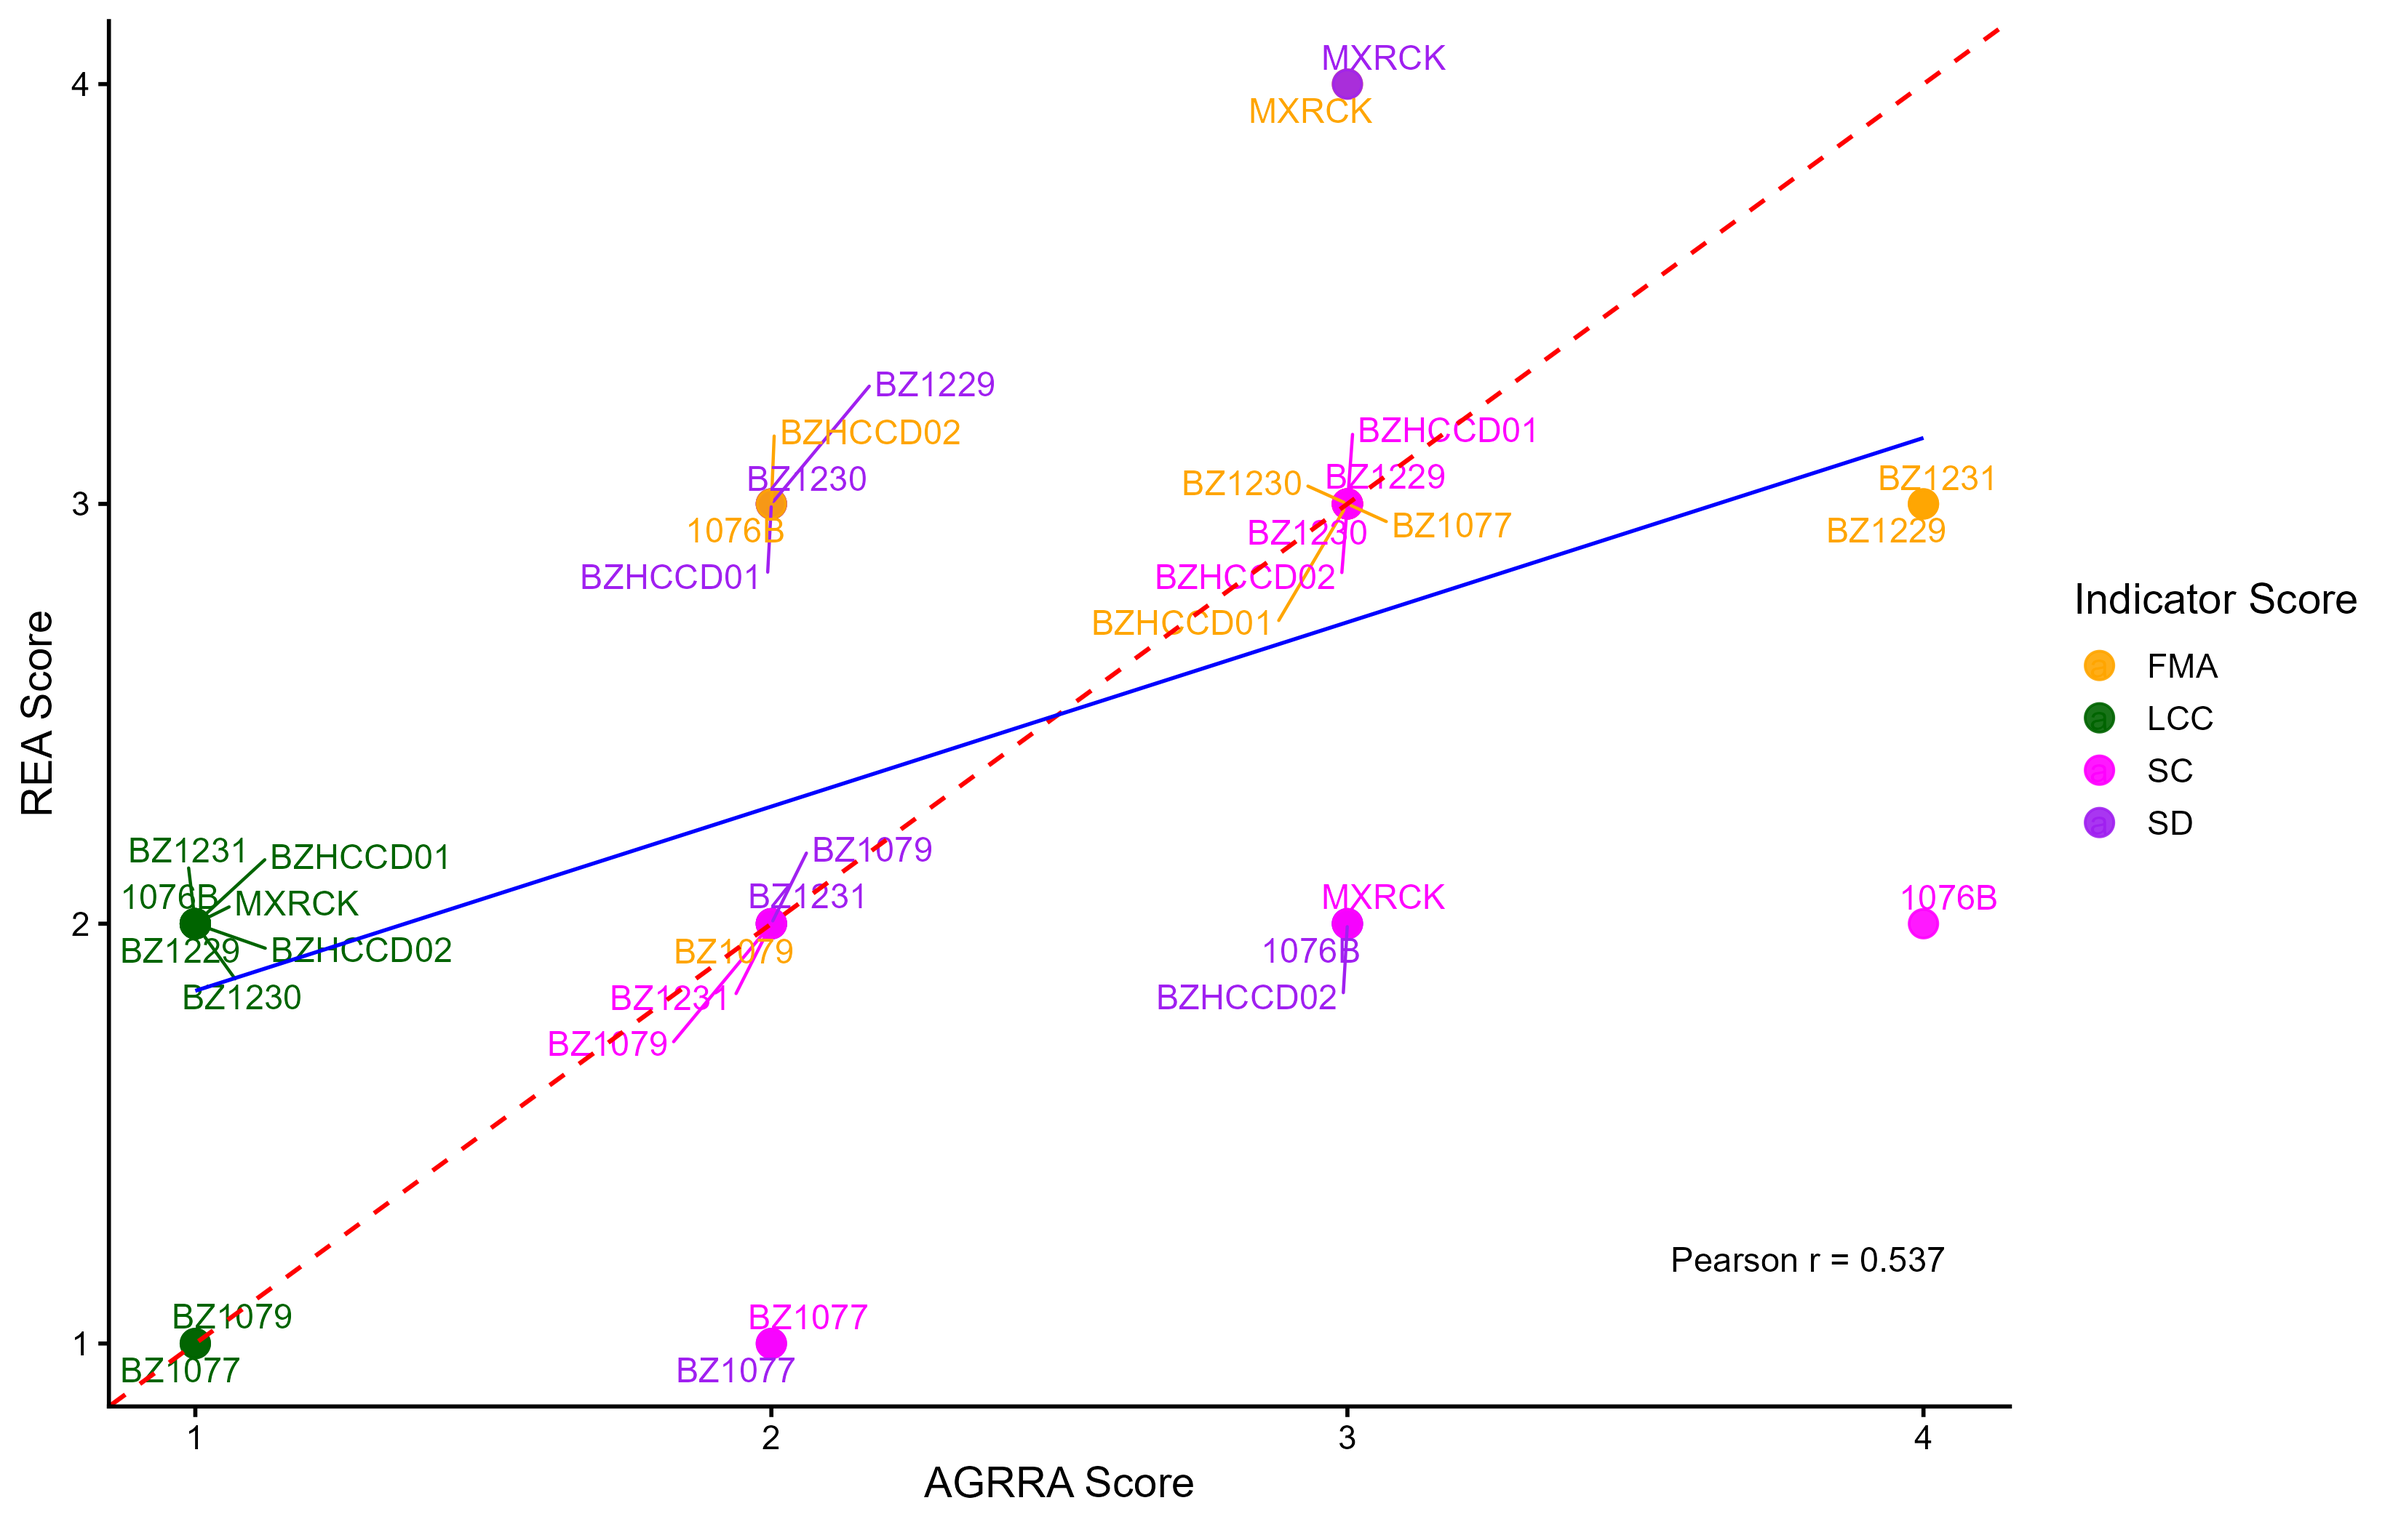
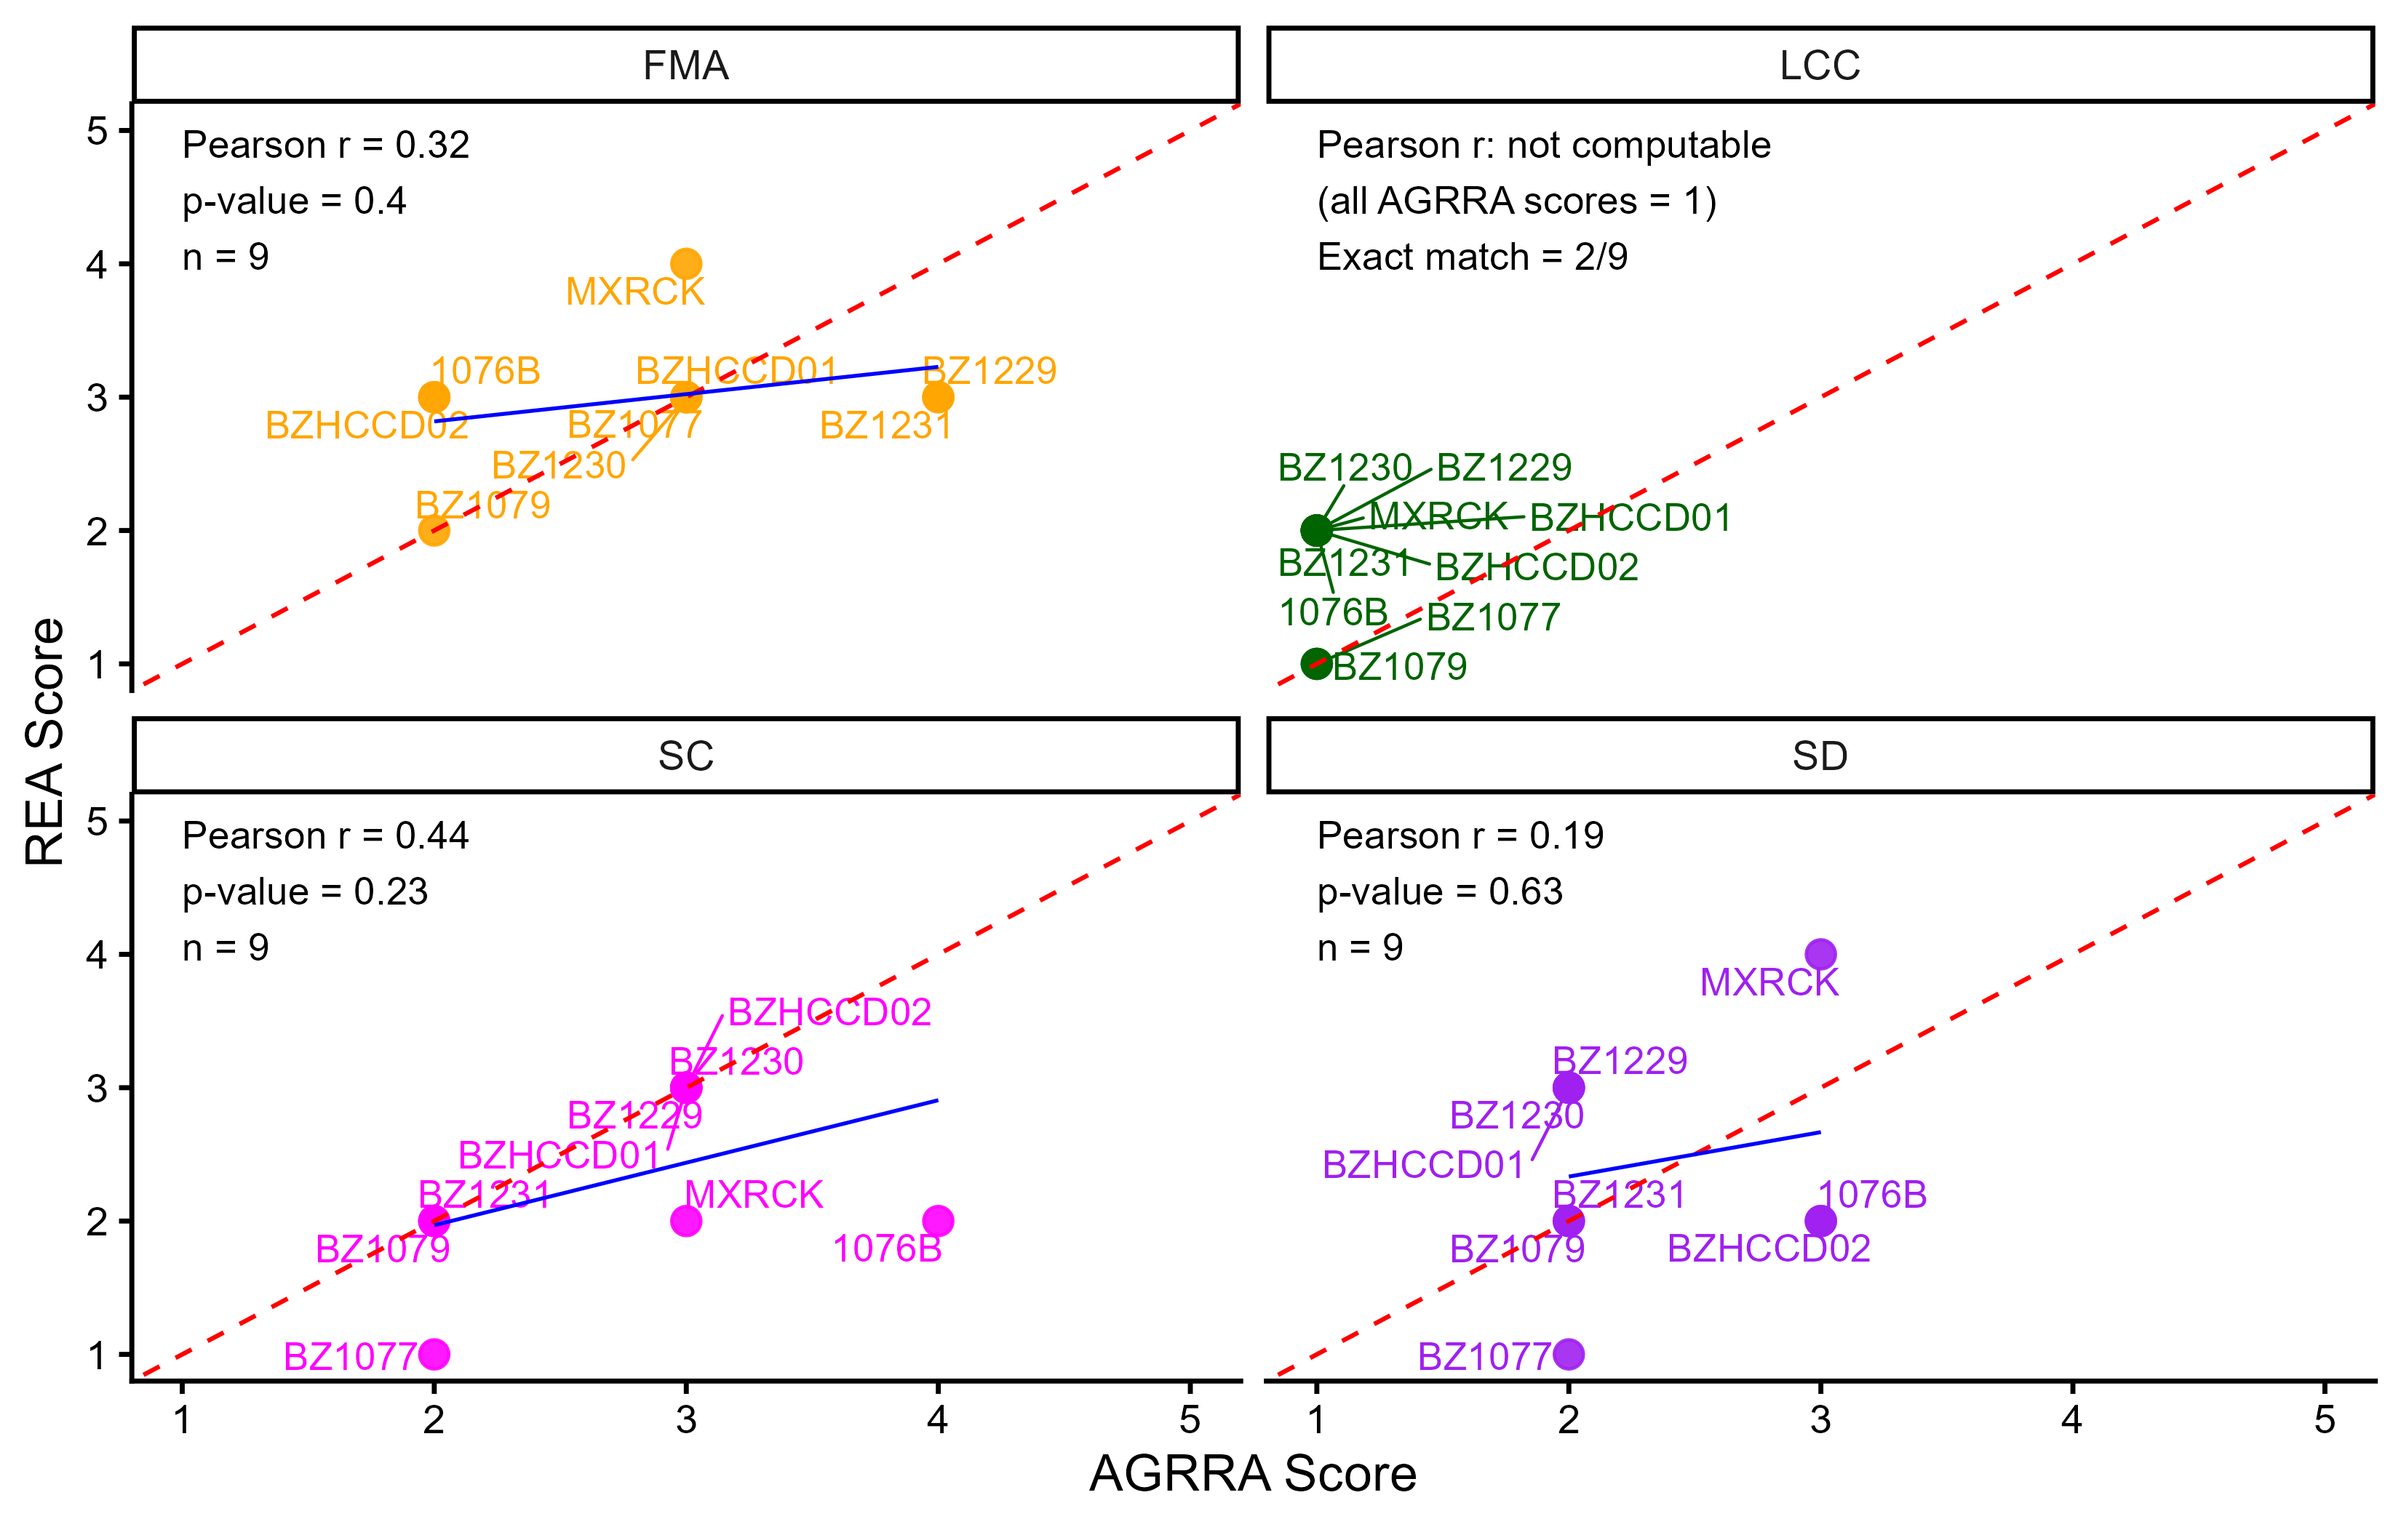
Update outputs

diff --git a/summary_table.html b/summary_table.html
@@ -7,23 +7,23 @@
 
 </head>
 <body>
-<div id="qvtzlalmzd" style="padding-left:0px;padding-right:0px;padding-top:10px;padding-bottom:10px;overflow-x:auto;overflow-y:auto;width:auto;height:auto;">
-  <style>#qvtzlalmzd table {
+<div id="ojaimsbbmv" style="padding-left:0px;padding-right:0px;padding-top:10px;padding-bottom:10px;overflow-x:auto;overflow-y:auto;width:auto;height:auto;">
+  <style>#ojaimsbbmv table {
   font-family: system-ui, 'Segoe UI', Roboto, Helvetica, Arial, sans-serif, 'Apple Color Emoji', 'Segoe UI Emoji', 'Segoe UI Symbol', 'Noto Color Emoji';
   -webkit-font-smoothing: antialiased;
   -moz-osx-font-smoothing: grayscale;
 }
 
-#qvtzlalmzd thead, #qvtzlalmzd tbody, #qvtzlalmzd tfoot, #qvtzlalmzd tr, #qvtzlalmzd td, #qvtzlalmzd th {
+#ojaimsbbmv thead, #ojaimsbbmv tbody, #ojaimsbbmv tfoot, #ojaimsbbmv tr, #ojaimsbbmv td, #ojaimsbbmv th {
   border-style: none;
 }
 
-#qvtzlalmzd p {
+#ojaimsbbmv p {
   margin: 0;
   padding: 0;
 }
 
-#qvtzlalmzd .gt_table {
+#ojaimsbbmv .gt_table {
   display: table;
   border-collapse: collapse;
   line-height: normal;
@@ -49,12 +49,12 @@
   border-left-color: #D3D3D3;
 }
 
-#qvtzlalmzd .gt_caption {
+#ojaimsbbmv .gt_caption {
   padding-top: 4px;
   padding-bottom: 4px;
 }
 
-#qvtzlalmzd .gt_title {
+#ojaimsbbmv .gt_title {
   color: #333333;
   font-size: 125%;
   font-weight: initial;
@@ -66,7 +66,7 @@
   border-bottom-width: 0;
 }
 
-#qvtzlalmzd .gt_subtitle {
+#ojaimsbbmv .gt_subtitle {
   color: #333333;
   font-size: 85%;
   font-weight: initial;
@@ -78,7 +78,7 @@
   border-top-width: 0;
 }
 
-#qvtzlalmzd .gt_heading {
+#ojaimsbbmv .gt_heading {
   background-color: #F5F5F5;
   text-align: center;
   border-bottom-color: #F5F5F5;
@@ -90,13 +90,13 @@
   border-right-color: #D3D3D3;
 }
 
-#qvtzlalmzd .gt_bottom_border {
+#ojaimsbbmv .gt_bottom_border {
   border-bottom-style: solid;
   border-bottom-width: 2px;
   border-bottom-color: #D3D3D3;
 }
 
-#qvtzlalmzd .gt_col_headings {
+#ojaimsbbmv .gt_col_headings {
   border-top-style: solid;
   border-top-width: 2px;
   border-top-color: #D3D3D3;
@@ -111,7 +111,7 @@
   border-right-color: #D3D3D3;
 }
 
-#qvtzlalmzd .gt_col_heading {
+#ojaimsbbmv .gt_col_heading {
   color: #333333;
   background-color: #F5F5F5;
   font-size: 100%;
@@ -131,7 +131,7 @@
   overflow-x: hidden;
 }
 
-#qvtzlalmzd .gt_column_spanner_outer {
+#ojaimsbbmv .gt_column_spanner_outer {
   color: #333333;
   background-color: #F5F5F5;
   font-size: 100%;
@@ -143,15 +143,15 @@
   padding-right: 4px;
 }
 
-#qvtzlalmzd .gt_column_spanner_outer:first-child {
+#ojaimsbbmv .gt_column_spanner_outer:first-child {
   padding-left: 0;
 }
 
-#qvtzlalmzd .gt_column_spanner_outer:last-child {
+#ojaimsbbmv .gt_column_spanner_outer:last-child {
   padding-right: 0;
 }
 
-#qvtzlalmzd .gt_column_spanner {
+#ojaimsbbmv .gt_column_spanner {
   border-bottom-style: solid;
   border-bottom-width: 2px;
   border-bottom-color: #D3D3D3;
@@ -163,11 +163,11 @@
   width: 100%;
 }
 
-#qvtzlalmzd .gt_spanner_row {
+#ojaimsbbmv .gt_spanner_row {
   border-bottom-style: hidden;
 }
 
-#qvtzlalmzd .gt_group_heading {
+#ojaimsbbmv .gt_group_heading {
   padding-top: 8px;
   padding-bottom: 8px;
   padding-left: 5px;
@@ -193,7 +193,7 @@
   text-align: left;
 }
 
-#qvtzlalmzd .gt_empty_group_heading {
+#ojaimsbbmv .gt_empty_group_heading {
   padding: 0.5px;
   color: #333333;
   background-color: #F5F5F5;
@@ -208,15 +208,15 @@
   vertical-align: middle;
 }
 
-#qvtzlalmzd .gt_from_md > :first-child {
+#ojaimsbbmv .gt_from_md > :first-child {
   margin-top: 0;
 }
 
-#qvtzlalmzd .gt_from_md > :last-child {
+#ojaimsbbmv .gt_from_md > :last-child {
   margin-bottom: 0;
 }
 
-#qvtzlalmzd .gt_row {
+#ojaimsbbmv .gt_row {
   padding-top: 8px;
   padding-bottom: 8px;
   padding-left: 5px;
@@ -235,7 +235,7 @@
   overflow-x: hidden;
 }
 
-#qvtzlalmzd .gt_stub {
+#ojaimsbbmv .gt_stub {
   color: #333333;
   background-color: #F5F5F5;
   font-size: 100%;
@@ -248,7 +248,7 @@
   padding-right: 5px;
 }
 
-#qvtzlalmzd .gt_stub_row_group {
+#ojaimsbbmv .gt_stub_row_group {
   color: #333333;
   background-color: #F5F5F5;
   font-size: 100%;
@@ -262,15 +262,15 @@
   vertical-align: top;
 }
 
-#qvtzlalmzd .gt_row_group_first td {
+#ojaimsbbmv .gt_row_group_first td {
   border-top-width: 2px;
 }
 
-#qvtzlalmzd .gt_row_group_first th {
+#ojaimsbbmv .gt_row_group_first th {
   border-top-width: 2px;
 }
 
-#qvtzlalmzd .gt_summary_row {
+#ojaimsbbmv .gt_summary_row {
   color: #333333;
   background-color: #F5F5F5;
   text-transform: inherit;
@@ -280,16 +280,16 @@
   padding-right: 5px;
 }
 
-#qvtzlalmzd .gt_first_summary_row {
+#ojaimsbbmv .gt_first_summary_row {
   border-top-style: solid;
   border-top-color: #D3D3D3;
 }
 
-#qvtzlalmzd .gt_first_summary_row.thick {
+#ojaimsbbmv .gt_first_summary_row.thick {
   border-top-width: 2px;
 }
 
-#qvtzlalmzd .gt_last_summary_row {
+#ojaimsbbmv .gt_last_summary_row {
   padding-top: 8px;
   padding-bottom: 8px;
   padding-left: 5px;
@@ -299,7 +299,7 @@
   border-bottom-color: #D3D3D3;
 }
 
-#qvtzlalmzd .gt_grand_summary_row {
+#ojaimsbbmv .gt_grand_summary_row {
   color: #333333;
   background-color: #F5F5F5;
   text-transform: inherit;
@@ -309,7 +309,7 @@
   padding-right: 5px;
 }
 
-#qvtzlalmzd .gt_first_grand_summary_row {
+#ojaimsbbmv .gt_first_grand_summary_row {
   padding-top: 8px;
   padding-bottom: 8px;
   padding-left: 5px;
@@ -319,7 +319,7 @@
   border-top-color: #D3D3D3;
 }
 
-#qvtzlalmzd .gt_last_grand_summary_row_top {
+#ojaimsbbmv .gt_last_grand_summary_row_top {
   padding-top: 8px;
   padding-bottom: 8px;
   padding-left: 5px;
@@ -329,11 +329,11 @@
   border-bottom-color: #D3D3D3;
 }
 
-#qvtzlalmzd .gt_striped {
+#ojaimsbbmv .gt_striped {
   background-color: rgba(128, 128, 128, 0.05);
 }
 
-#qvtzlalmzd .gt_table_body {
+#ojaimsbbmv .gt_table_body {
   border-top-style: solid;
   border-top-width: 2px;
   border-top-color: #D3D3D3;
@@ -342,7 +342,7 @@
   border-bottom-color: #D3D3D3;
 }
 
-#qvtzlalmzd .gt_footnotes {
+#ojaimsbbmv .gt_footnotes {
   color: #333333;
   background-color: #F5F5F5;
   border-bottom-style: none;
@@ -356,7 +356,7 @@
   border-right-color: #D3D3D3;
 }
 
-#qvtzlalmzd .gt_footnote {
+#ojaimsbbmv .gt_footnote {
   margin: 0px;
   font-size: 90%;
   padding-top: 4px;
@@ -365,7 +365,7 @@
   padding-right: 5px;
 }
 
-#qvtzlalmzd .gt_sourcenotes {
+#ojaimsbbmv .gt_sourcenotes {
   color: #333333;
   background-color: #F5F5F5;
   border-bottom-style: none;
@@ -379,7 +379,7 @@
   border-right-color: #D3D3D3;
 }
 
-#qvtzlalmzd .gt_sourcenote {
+#ojaimsbbmv .gt_sourcenote {
   font-size: 90%;
   padding-top: 4px;
   padding-bottom: 4px;
@@ -387,72 +387,72 @@
   padding-right: 5px;
 }
 
-#qvtzlalmzd .gt_left {
+#ojaimsbbmv .gt_left {
   text-align: left;
 }
 
-#qvtzlalmzd .gt_center {
+#ojaimsbbmv .gt_center {
   text-align: center;
 }
 
-#qvtzlalmzd .gt_right {
+#ojaimsbbmv .gt_right {
   text-align: right;
   font-variant-numeric: tabular-nums;
 }
 
-#qvtzlalmzd .gt_font_normal {
+#ojaimsbbmv .gt_font_normal {
   font-weight: normal;
 }
 
-#qvtzlalmzd .gt_font_bold {
+#ojaimsbbmv .gt_font_bold {
   font-weight: bold;
 }
 
-#qvtzlalmzd .gt_font_italic {
+#ojaimsbbmv .gt_font_italic {
   font-style: italic;
 }
 
-#qvtzlalmzd .gt_super {
+#ojaimsbbmv .gt_super {
   font-size: 65%;
 }
 
-#qvtzlalmzd .gt_footnote_marks {
+#ojaimsbbmv .gt_footnote_marks {
   font-size: 75%;
   vertical-align: 0.4em;
   position: initial;
 }
 
-#qvtzlalmzd .gt_asterisk {
+#ojaimsbbmv .gt_asterisk {
   font-size: 100%;
   vertical-align: 0;
 }
 
-#qvtzlalmzd .gt_indent_1 {
+#ojaimsbbmv .gt_indent_1 {
   text-indent: 5px;
 }
 
-#qvtzlalmzd .gt_indent_2 {
+#ojaimsbbmv .gt_indent_2 {
   text-indent: 10px;
 }
 
-#qvtzlalmzd .gt_indent_3 {
+#ojaimsbbmv .gt_indent_3 {
   text-indent: 15px;
 }
 
-#qvtzlalmzd .gt_indent_4 {
+#ojaimsbbmv .gt_indent_4 {
   text-indent: 20px;
 }
 
-#qvtzlalmzd .gt_indent_5 {
+#ojaimsbbmv .gt_indent_5 {
   text-indent: 25px;
 }
 
-#qvtzlalmzd .katex-display {
+#ojaimsbbmv .katex-display {
   display: inline-flex !important;
   margin-bottom: 0.75em !important;
 }
 
-#qvtzlalmzd div.Reactable > div.rt-table > div.rt-thead > div.rt-tr.rt-tr-group-header > div.rt-th-group:after {
+#ojaimsbbmv div.Reactable > div.rt-table > div.rt-thead > div.rt-tr.rt-tr-group-header > div.rt-th-group:after {
   height: 0px !important;
 }
 </style>
